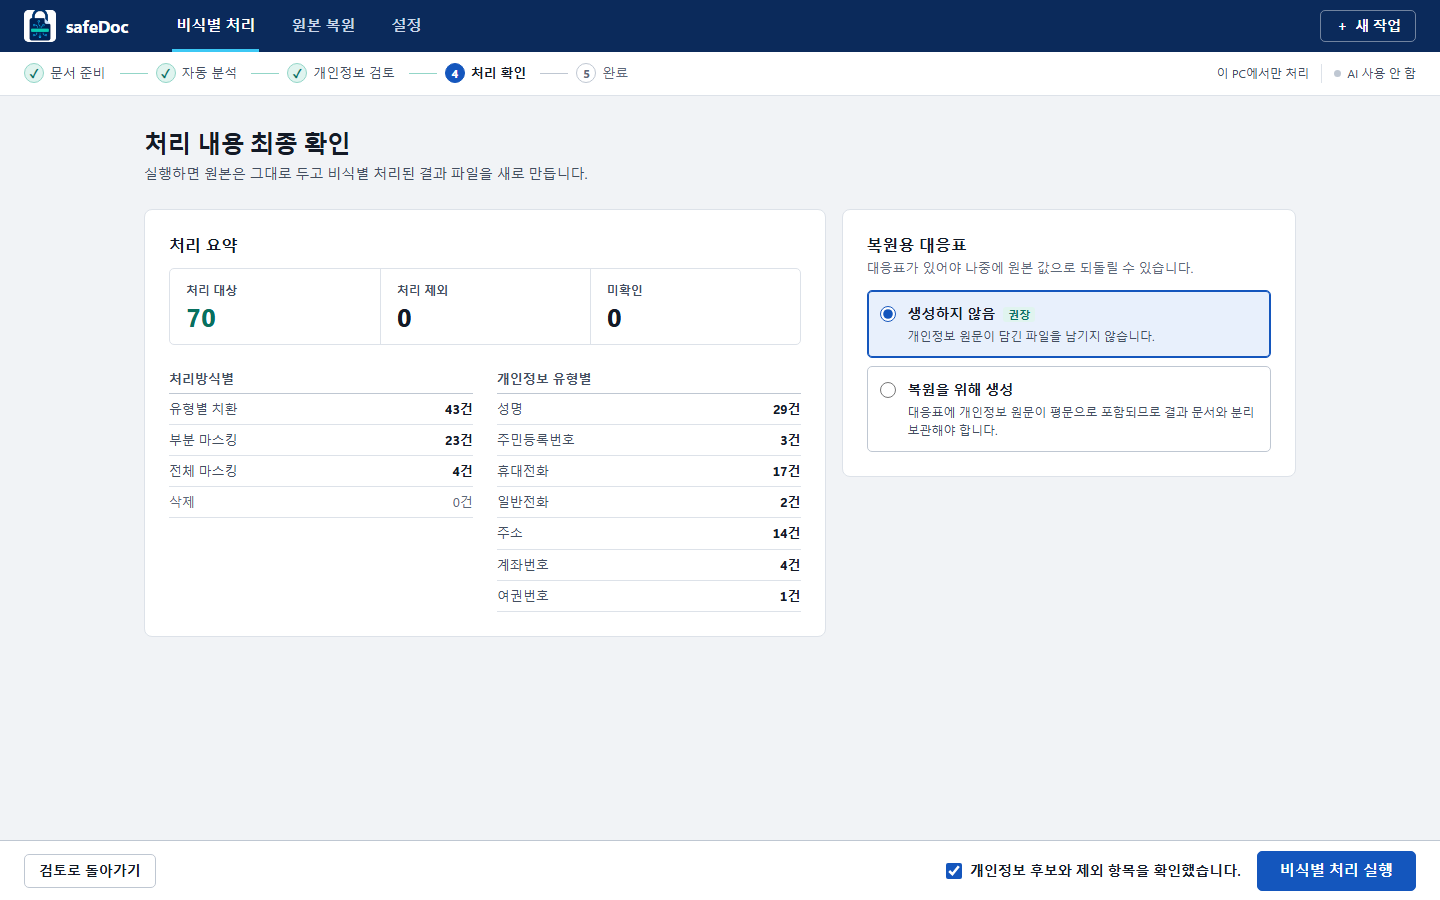
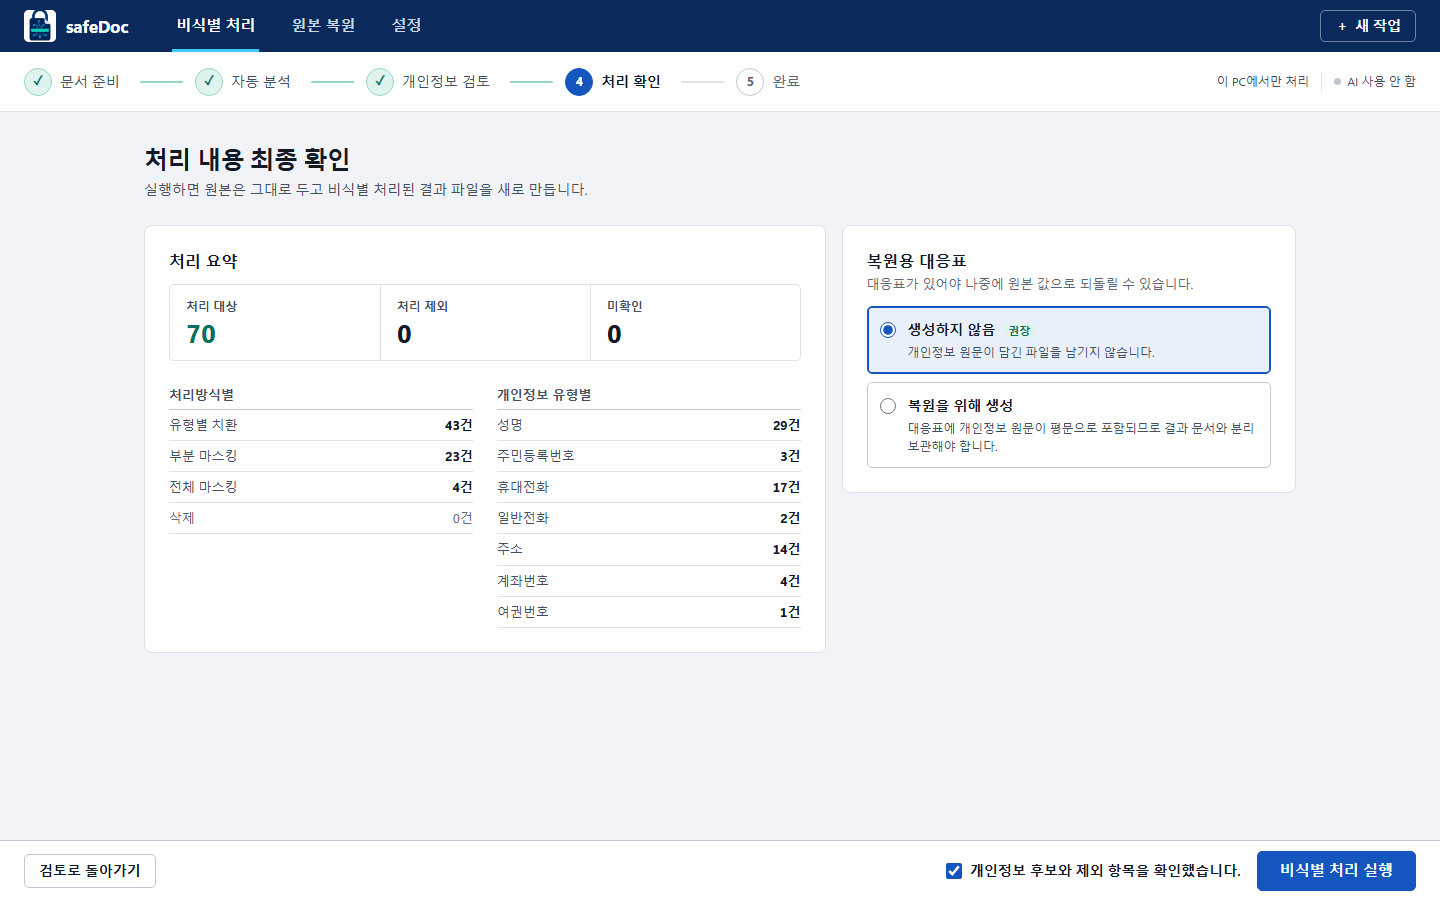
UI 수정

diff --git a/src/style.css b/src/style.css
@@ -12,7 +12,7 @@
   --s1: 4px; --s2: 8px; --s3: 12px; --s4: 16px; --s5: 24px; --s6: 32px; --s7: 48px;
   --fs-xs: 12px; --fs-sm: 13px; --fs-md: 14px; --fs-lg: 16px; --fs-xl: 20px; --fs-2xl: 24px;
   --r-sm: 3px; --r-md: 5px; --r-lg: 8px;
-  --topbar-h: 52px; --workbar-h: 44px; --row-h: 36px;
+  --topbar-h: 52px; --workbar-h: 60px; --row-h: 36px;
 
   --bg: #f1f3f6;
   --surface: #ffffff;
@@ -247,28 +247,29 @@ main { flex: 1; min-width: 0; min-height: 0; display: flex; flex-direction: colu
 .step {
   display: flex;
   align-items: center;
-  gap: 6px;
+  gap: var(--s2);
   color: var(--ink-3);
-  font-size: var(--fs-sm);
+  font-size: var(--fs-md);
   white-space: nowrap;
 }
 .step b { font-weight: 500; }
 .step:not(:last-child)::after {
   content: '';
-  width: clamp(10px, 2vw, 28px);
-  height: 1px;
-  margin: 0 var(--s2);
-  background: var(--line-strong);
+  width: clamp(16px, 3vw, 56px);
+  height: 2px;
+  margin: 0 var(--s3);
+  background: var(--line);
+  border-radius: 1px;
 }
 .step span {
-  width: 20px; height: 20px;
+  width: 28px; height: 28px;
   display: grid;
   place-items: center;
   flex: none;
-  border: 1px solid var(--line-strong);
+  border: 1.5px solid var(--line-strong);
   border-radius: 50%;
   background: var(--surface);
-  font-size: var(--fs-xs);
+  font-size: var(--fs-sm);
   font-weight: 700;
 }
 .step.current { color: var(--ink); }
@@ -276,7 +277,7 @@ main { flex: 1; min-width: 0; min-height: 0; display: flex; flex-direction: colu
 .step.current span { background: var(--accent-solid); border-color: var(--accent-solid); color: #fff; }
 .step.done { color: var(--ink-2); }
 .step.done span { background: var(--ok-soft); border-color: var(--ok-line); color: var(--ok); font-size: 0; }
-.step.done span::before { content: '✓'; font-size: var(--fs-xs); }
+.step.done span::before { content: '✓'; font-size: var(--fs-sm); }
 .step.done::after { background: var(--ok-line); }
 
 .workbar-status { display: flex; align-items: center; gap: var(--s3); flex: none; font-size: var(--fs-xs); color: var(--ink-2); }
@@ -285,12 +286,11 @@ main { flex: 1; min-width: 0; min-height: 0; display: flex; flex-direction: colu
 .security-state i { width: 7px; height: 7px; border-radius: 50%; background: var(--line-strong); }
 .security-state.on i { background: var(--ok-solid); }
 .security-state.busy i { background: var(--accent-solid); animation: pulse 1.2s ease-in-out infinite; }
-.workbar-status:has(#ai-status:not([hidden])) .security-state { display: none; }
 @keyframes pulse { 0%, 100% { opacity: 1; } 50% { opacity: .3; } }
 
 /* 현재 단계 안의 "AI 작업 중" 표시 — AI 탐지가 진행되는 동안에만 보인다 */
 .step-ai { display: none; }
-.workbar:has(#ai-status:not([hidden])) .step.current .step-ai {
+.app-shell:has(#ai-status:not([hidden])) .step.current .step-ai {
   display: inline-flex;
   align-items: center;
   gap: 4px;
@@ -316,11 +316,11 @@ main { flex: 1; min-width: 0; min-height: 0; display: flex; flex-direction: colu
 .step-ai i:nth-of-type(2) { animation-delay: .15s; }
 .step-ai i:nth-of-type(3) { animation-delay: .3s; }
 /* 현재 단계 번호 원 둘레에 도는 고리 */
-.workbar:has(#ai-status:not([hidden])) .step.current span { position: relative; }
-.workbar:has(#ai-status:not([hidden])) .step.current span::after {
+.app-shell:has(#ai-status:not([hidden])) .step.current span { position: relative; }
+.app-shell:has(#ai-status:not([hidden])) .step.current span::after {
   content: '';
   position: absolute;
-  inset: -4px;
+  inset: -5px;
   border: 2px solid transparent;
   border-top-color: var(--brand-signal);
   border-right-color: var(--brand-signal);
@@ -333,42 +333,45 @@ main { flex: 1; min-width: 0; min-height: 0; display: flex; flex-direction: colu
 @keyframes ai-glow { 0%, 100% { box-shadow: 0 0 0 0 rgba(20, 86, 189, .45); } 50% { box-shadow: 0 0 0 5px rgba(20, 86, 189, 0); } }
 @keyframes ai-stripes { to { background-position: 28px 0; } }
 
-/* 우측 AI 진행 상태 — 눈에 띄는 알약형 패널 */
-.ai-status {
-  display: inline-flex;
+/* 검토 화면 위의 AI 진행 배너 — AI 탐지가 진행되는 동안에만 보이며 스스로 맥박처럼 깜박인다 */
+.ai-banner {
+  flex: none;
+  display: flex;
   align-items: center;
-  gap: var(--s3);
-  padding: 5px 6px 5px 5px;
-  border: 1px solid var(--accent-line);
-  border-radius: 999px;
+  gap: var(--s4);
+  margin: var(--s4) var(--s5) 0;
+  padding: 12px var(--s4) 12px var(--s4);
   background: var(--accent-soft);
-  font-size: var(--fs-sm);
+  border: 1px solid var(--accent-line);
+  border-left: 5px solid var(--accent-solid);
+  border-radius: var(--r-lg);
+  animation: ai-glow 1.8s ease-out infinite;
 }
-.ai-spark {
-  display: inline-grid;
-  place-items: center;
-  min-width: 30px;
-  height: 24px;
-  padding: 0 8px;
-  border-radius: 999px;
-  background: var(--accent-solid);
-  color: #fff;
-  font-size: 12px;
-  font-weight: 800;
-  letter-spacing: .04em;
-  animation: ai-glow 1.6s ease-out infinite;
+.ai-spinner {
+  width: 26px; height: 26px;
+  flex: none;
+  border: 3px solid var(--accent-line);
+  border-top-color: var(--accent-solid);
+  border-radius: 50%;
+  animation: ai-spin .8s linear infinite;
 }
-.ai-status-bar { width: 140px; height: 8px; background: var(--surface); border: 1px solid var(--accent-line); border-radius: 4px; overflow: hidden; }
+.ai-banner-copy { min-width: 0; flex: 1; display: grid; gap: 1px; }
+.ai-banner-copy strong { color: var(--ink); font-size: var(--fs-md); }
+.ai-banner-copy span { overflow: hidden; color: var(--ink-2); font-size: var(--fs-xs); text-overflow: ellipsis; white-space: nowrap; }
+.ai-banner-progress { display: flex; align-items: center; gap: var(--s3); flex: none; }
+.ai-status-bar { width: 240px; height: 10px; background: var(--surface); border: 1px solid var(--accent-line); border-radius: 5px; overflow: hidden; }
 .ai-status-fill {
   width: 0;
-  min-width: 6px;
+  min-width: 8px;
   height: 100%;
-  background: repeating-linear-gradient(135deg, var(--accent-solid) 0 8px, var(--accent) 8px 14px) 0 0 / 28px 100%;
+  background: repeating-linear-gradient(135deg, var(--accent-solid) 0 8px, var(--accent-hover) 8px 14px) 0 0 / 28px 100%;
   transition: width .25s;
   animation: ai-stripes .9s linear infinite;
 }
-.ai-status-text { font-weight: 700; color: var(--ink); white-space: nowrap; font-variant-numeric: tabular-nums; }
-.ai-status .btn.tiny { border-radius: 999px; background: var(--surface); }
+.ai-status-text { color: var(--ink); font-size: var(--fs-sm); font-weight: 700; white-space: nowrap; font-variant-numeric: tabular-nums; }
+/* 새로 찾은 후보가 표에 나타날 때 잠깐 강조한다 */
+.app-shell:has(#ai-status:not([hidden])) .cand.src-ai { animation: cand-flash 2s ease-out; }
+@keyframes cand-flash { from { background: var(--accent-line); } to { background: var(--surface); } }
 
 /* ---------- 버튼·입력 ---------- */
 
@@ -498,23 +501,34 @@ kbd {
 
 /* ---------- 3. 개인정보 검토 ---------- */
 
+/* 두 패널은 화면 가장자리와 서로 사이에 여백을 두는 카드다 */
 .review-layout {
   flex: 1;
   min-height: 0;
   display: grid;
   grid-template-columns: minmax(0, 43fr) minmax(0, 57fr);
-  background: var(--surface);
+  gap: var(--s4);
+  margin: var(--s4) var(--s5);
 }
-.pane { min-width: 0; min-height: 0; display: flex; flex-direction: column; background: var(--surface); }
-.document-pane { border-right: 1px solid var(--line-strong); }
+.pane {
+  min-width: 0;
+  min-height: 0;
+  display: flex;
+  flex-direction: column;
+  overflow: hidden;
+  background: var(--surface);
+  border: 1px solid var(--line);
+  border-radius: var(--r-lg);
+  box-shadow: 0 1px 3px rgba(15, 25, 45, .08);
+}
 
 .pane-head {
   flex: none;
-  min-height: 41px;
+  min-height: 48px;
   display: flex;
   align-items: center;
   gap: var(--s3);
-  padding: var(--s1) var(--s4);
+  padding: var(--s2) var(--s5);
   border-bottom: 1px solid var(--line);
 }
 .doc-meta { min-width: 0; flex: 1; display: flex; align-items: baseline; gap: 5px; overflow: hidden; color: var(--ink-3); font-size: var(--fs-xs); white-space: nowrap; }
@@ -523,7 +537,7 @@ kbd {
 .doc-meta .sep { color: var(--line-strong); }
 .pane-actions { display: flex; align-items: center; gap: var(--s2); flex: none; font-size: var(--fs-xs); }
 
-.doc-tools { flex: none; display: grid; grid-template-columns: minmax(0, 1fr) 124px auto; gap: 6px; padding: 6px var(--s4); background: var(--surface-2); border-bottom: 1px solid var(--line); }
+.doc-tools { flex: none; display: grid; grid-template-columns: minmax(0, 1fr) 124px auto; gap: var(--s2); padding: 10px var(--s5); background: var(--surface-2); border-bottom: 1px solid var(--line); }
 .doc-tools input { min-width: 0; }
 
 .preview-wrap { position: relative; flex: 1; min-height: 0; display: flex; }
@@ -570,7 +584,7 @@ mark.replaced { padding: 1px 2px; background: var(--ok-soft); border-radius: 2px
 }
 .selection-popover select { width: 124px; min-height: 28px; }
 
-.doc-legend { flex: none; min-height: 30px; display: flex; align-items: center; gap: var(--s3); padding: 2px var(--s4); border-top: 1px solid var(--line); color: var(--ink-3); font-size: var(--fs-xs); }
+.doc-legend { flex: none; min-height: 34px; display: flex; align-items: center; gap: var(--s3); padding: 2px var(--s5); border-top: 1px solid var(--line); color: var(--ink-3); font-size: var(--fs-xs); }
 .legend-item { display: inline-flex; align-items: center; gap: var(--s1); white-space: nowrap; }
 .legend-help { margin-left: auto; overflow: hidden; text-overflow: ellipsis; white-space: nowrap; }
 .swatch { width: 12px; height: 10px; border-radius: 2px; border-bottom: 2px solid; }
@@ -579,7 +593,7 @@ mark.replaced { padding: 1px 2px; background: var(--ok-soft); border-radius: 2px
 .swatch.excluded { background: var(--hl-off); border-color: var(--line-strong); }
 
 /* 상태 필터 — 탭 */
-.status-filters { flex: none; min-height: 41px; display: flex; align-items: stretch; gap: 2px; padding: 0 var(--s2); border-bottom: 1px solid var(--line); overflow-x: auto; scrollbar-width: none; }
+.status-filters { flex: none; min-height: 48px; display: flex; align-items: stretch; gap: 2px; padding: 0 var(--s3); border-bottom: 1px solid var(--line); overflow-x: auto; scrollbar-width: none; }
 .status-filter {
   position: relative;
   display: inline-flex;
@@ -602,11 +616,11 @@ mark.replaced { padding: 1px 2px; background: var(--ok-soft); border-radius: 2px
 .status-filter[data-status="pending"] span.has-items { background: var(--warn-soft); color: var(--warn); }
 .status-filter:focus-visible { box-shadow: inset 0 0 0 2px var(--accent); }
 
-.cand-toolbar { flex: none; display: flex; align-items: center; flex-wrap: wrap; gap: 6px; padding: 6px var(--s3); background: var(--surface-2); border-bottom: 1px solid var(--line); }
-.cand-toolbar > select { width: 112px; min-height: 28px; }
+.cand-toolbar { flex: none; display: flex; align-items: center; flex-wrap: wrap; gap: 6px; padding: 10px var(--s4); background: var(--surface-2); border-bottom: 1px solid var(--line); }
+.cand-toolbar > select { width: 104px; min-height: 28px; }
 .filter-actions { display: flex; align-items: center; gap: var(--s1); margin-left: var(--s2); padding-left: var(--s3); border-left: 1px solid var(--line-strong); }
 .filter-label { margin-right: var(--s1); color: var(--ink-2); font-size: var(--fs-xs); font-weight: 700; white-space: nowrap; font-variant-numeric: tabular-nums; }
-.filter-actions select { width: 128px; min-height: 28px; }
+.filter-actions select { width: 116px; min-height: 28px; }
 #btn-undo { margin-left: auto; }
 
 .grid-scroll { flex: 1; min-height: 0; overflow: auto; position: relative; }
@@ -616,12 +630,11 @@ mark.replaced { padding: 1px 2px; background: var(--ok-soft); border-radius: 2px
   grid-template-columns: 62px minmax(112px, 1.1fr) 104px minmax(0, 2fr) 112px;
   align-items: center;
   column-gap: var(--s2);
-  padding: 0 var(--s3);
+  padding: 0 var(--s5);
 }
+/* sticky는 부모 안에서만 고정되므로 머리글을 감싼 rowgroup을 고정한다 */
+.cand-table > [role="rowgroup"]:first-child { position: sticky; top: 0; z-index: 2; }
 .cand-header {
-  position: sticky;
-  top: 0;
-  z-index: 2;
   height: 28px;
   background: var(--surface-3);
   border-bottom: 1px solid var(--line-strong);
@@ -685,8 +698,8 @@ mark.replaced { padding: 1px 2px; background: var(--ok-soft); border-radius: 2px
 /* 선택 후보 상세 */
 .inspector {
   flex: none;
-  min-height: 92px;
-  padding: var(--s2) var(--s4);
+  min-height: 100px;
+  padding: var(--s3) var(--s5);
   background: var(--surface-2);
   border-top: 1px solid var(--line-strong);
   font-size: var(--fs-sm);
@@ -909,18 +922,25 @@ mark.replaced { padding: 1px 2px; background: var(--ok-soft); border-radius: 2px
   .filter-label { display: none; }
   .review-gap { display: none; }
 }
-@media (max-height: 760px) and (min-width: 1025px) {
+@media (max-height: 800px) and (min-width: 1025px) {
+  :root { --workbar-h: 52px; }
   .doc-legend { display: none; }
-  .inspector { min-height: 78px; padding-block: var(--s1); }
+  .inspector { min-height: 84px; padding-block: var(--s2); }
   .action-bar { min-height: 52px; }
+  .review-layout { margin-block: var(--s3); }
+  .ai-banner { margin-top: var(--s3); padding-block: 8px; }
+  .ai-banner-copy span { display: none; }
 }
 @media (max-width: 1024px) {
   .app-shell { height: auto; min-height: 100dvh; }
   .app-topbar { position: sticky; top: 0; }
   .app-workspace, main, .tab-panel, .screen { min-height: 0; }
   .page-scroll { overflow: visible; }
-  .review-layout { display: block; }
-  .document-pane { height: 56dvh; min-height: 380px; border-right: 0; border-bottom: 1px solid var(--line-strong); }
+  .review-layout { display: block; margin: var(--s4) var(--s4) var(--s5); }
+  .document-pane { height: 56dvh; min-height: 380px; margin-bottom: var(--s4); }
+  .ai-banner { flex-wrap: wrap; margin: var(--s4) var(--s4) 0; }
+  .ai-banner-progress { width: 100%; }
+  .ai-status-bar { flex: 1; width: auto; }
   .candidate-pane { min-height: 560px; }
   .grid-scroll { max-height: 56dvh; }
   .action-bar { position: sticky; bottom: 0; }
@@ -936,8 +956,14 @@ mark.replaced { padding: 1px 2px; background: var(--ok-soft); border-radius: 2px
   .new-task-btn { padding: 0 10px; }
   .top-nav { order: 3; width: calc(100% + 24px); margin: 0 -12px; border-top: 1px solid var(--brand-line); }
   .tab-btn { flex: 1; justify-content: center; min-height: 42px; padding: 0 var(--s2); font-size: var(--fs-md); }
-  .workbar { padding: 6px var(--s3); flex-wrap: wrap; }
-  .step:not(:last-child)::after { width: 8px; margin: 0 var(--s1); }
+  .workbar { padding: 8px var(--s3); flex-wrap: wrap; }
+  .step:not(:last-child)::after { width: 10px; margin: 0 var(--s1); }
+  .review-layout { margin: var(--s3) var(--s3) var(--s4); }
+  .ai-banner { margin: var(--s3) var(--s3) 0; padding: 10px var(--s3); }
+  .ai-banner-copy span { white-space: normal; }
+  .pane-head, .doc-tools, .cand-toolbar, .doc-legend { padding-inline: var(--s3); }
+  .cand-header, .cand { padding: 0 var(--s3); }
+  .inspector { padding-inline: var(--s3); }
   .page { padding: var(--s4) var(--s3) var(--s6); }
   h2 { font-size: var(--fs-xl); }
   .sheet, .spec-sheet { padding: var(--s4); }

diff --git a/index.html b/index.html
@@ -53,12 +53,6 @@
             <div class="workbar-status">
               <span class="local-state">이 PC에서만 처리</span>
               <span id="ai-badge" class="security-state busy"><i aria-hidden="true"></i><span id="ai-badge-text">AI 확인 중…</span></span>
-              <div id="ai-status" class="ai-status" hidden>
-                <span class="ai-spark" aria-hidden="true">AI</span>
-                <div class="ai-status-bar" id="ai-progressbar" role="progressbar" aria-labelledby="ai-status-text" aria-valuemin="0" aria-valuemax="100" aria-valuenow="0"><div id="ai-progress" class="ai-status-fill"></div></div>
-                <span id="ai-status-text" class="ai-status-text"></span>
-                <button id="btn-cancel-ai" class="btn tiny ghost">중단</button>
-              </div>
             </div>
           </div>
 
@@ -116,6 +110,18 @@
           </div>
 
           <div id="screen-review" class="screen">
+            <div id="ai-status" class="ai-banner" hidden>
+              <span class="ai-spinner" aria-hidden="true"></span>
+              <div class="ai-banner-copy">
+                <strong>AI가 문맥 속 성명·주소를 추가로 찾고 있습니다</strong>
+                <span>규칙으로 찾은 후보는 지금 검토하셔도 됩니다. 새로 찾은 후보는 표에 자동으로 추가됩니다.</span>
+              </div>
+              <div class="ai-banner-progress">
+                <div class="ai-status-bar" id="ai-progressbar" role="progressbar" aria-labelledby="ai-status-text" aria-valuemin="0" aria-valuemax="100" aria-valuenow="0"><div id="ai-progress" class="ai-status-fill"></div></div>
+                <span id="ai-status-text" class="ai-status-text"></span>
+                <button id="btn-cancel-ai" class="btn small">AI 탐지 중단</button>
+              </div>
+            </div>
             <div class="review-layout">
               <section class="pane document-pane" aria-labelledby="doc-pane-title">
                 <header class="pane-head">

diff --git a/DEVELOPMENT_STATUS.md b/DEVELOPMENT_STATUS.md
@@ -10,6 +10,7 @@
   - 5단계 흐름(문서 준비 → 자동 분석 → 개인정보 검토 → 처리 확인 → 완료)과 모든 단계 공통의 하단 고정 행동 바.
   - 검토 화면: 문서와 후보 표의 2분할, 한 줄 행, 선택 후보 상세 영역, 판단 후 다음 미확인 후보 자동 이동, `Ctrl+Z` 되돌리기.
   - 후보는 미확인·처리·제외 3상태이며 미확인이 남으면 실행할 수 없다.
+  - 검토 화면의 바깥·패널 사이 여백(16~24px), 60px 단계 바, AI 진행 배너를 추가했다. 후보 표 머리글이 스크롤하면 사라지던 결함도 고쳤다.
 - 대응표는 사용자가 복원을 위해 선택한 경우에만 생성한다(기본 생성 안 함).
 - 단일 HTML 프로덕션 빌드가 성공한다. (4,345KB / gzip 2,007KB)
 - 코드 규모: `src` JS 약 6,150줄(글꼴 데이터 제외 시 6,145줄), CSS 약 900줄, 시험 약 2,000줄.
